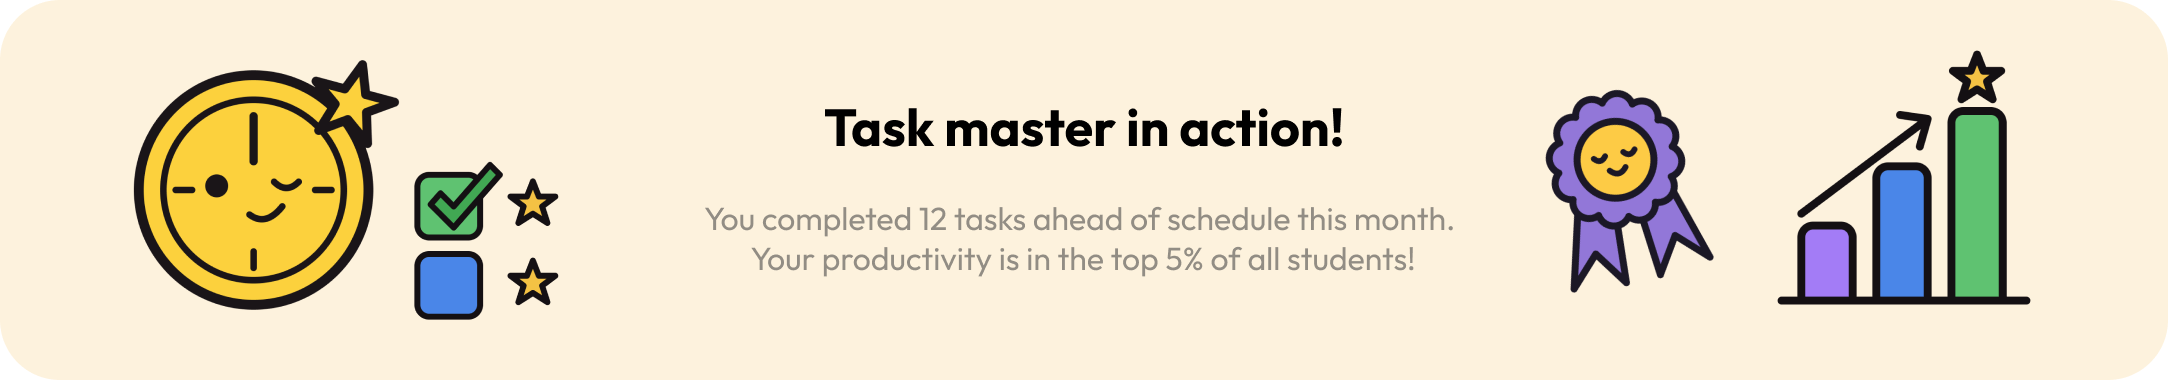
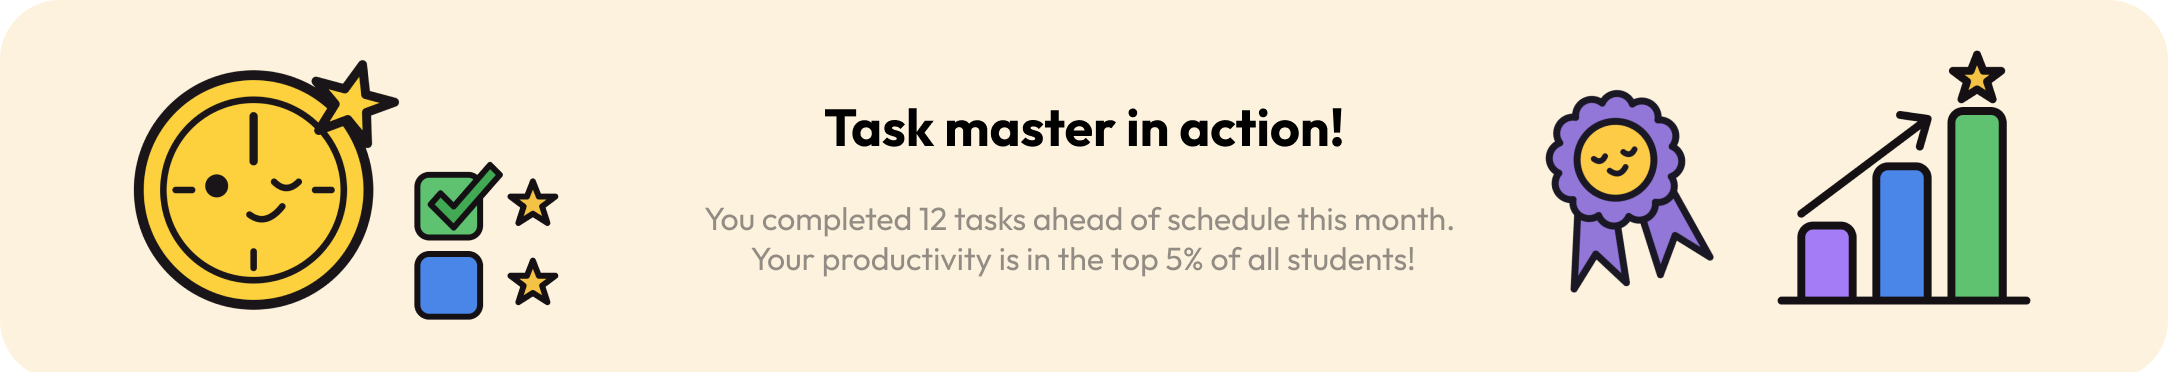
perbaiki gambar footer di Tasks.jsx

diff --git a/src/pages/Tasks.jsx b/src/pages/Tasks.jsx
@@ -627,7 +627,7 @@ const getStatusIcon = (task, index) => {
                     <img
                         src={footer}
                         alt="Tasks Footer"
-                        className="w-full h-[220px] object-cover object-top"
+                        className="w-auto h-auto object-cover object-top"
                     />
                 </div>
                 {showModal && (
